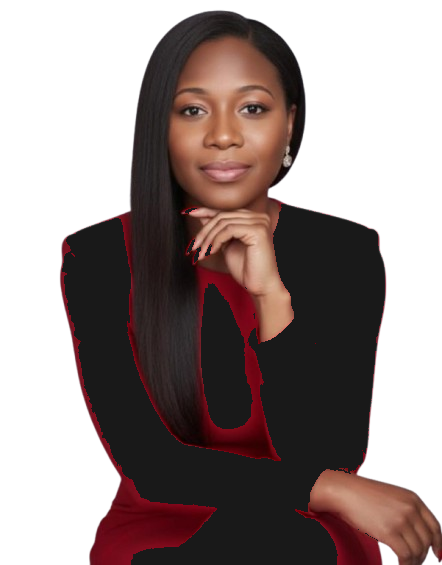
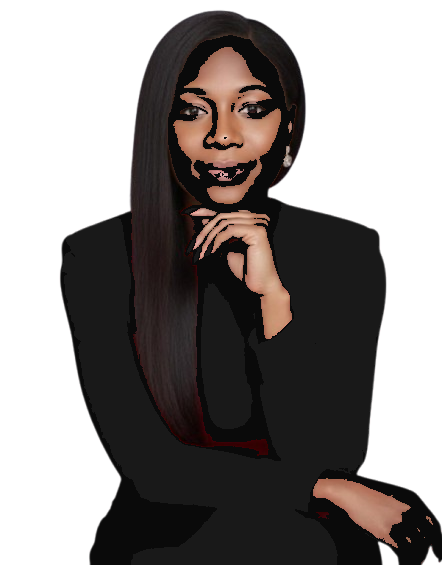
Polish: copy, pills, portrait, and professional language
- Hero specialty pills: replaced 'Injectors & Aesthetic Providers' with
  'Related Self-Pay Healthcare'; brightened all pills with navy bg/border
- Pricing Growth tagline: broadened from MedSpa-only to all aesthetic
  and wellness practices
- Financial Dashboard badge: 'Illustrative' → 'Sample Practice Financial Model'
- FinancialDashboard + FAQSection: replaced first-person 'I' with 'We'
  throughout solution text and body copy
- Portrait: second-pass PIL conversion to catch dark maroon/wine trim
  around blazer edges (31,095 additional pixels → full black)

Claude-Session: https://claude.ai/code/session_01NwKx194kftSKSsizJ6i55Q

diff --git a/src/components/FinancialDashboard.tsx b/src/components/FinancialDashboard.tsx
@@ -95,35 +95,35 @@ const metricExplanations: Record<MetricKey, MetricExplanation> = {
     plainEnglish: 'Total cash and patient financing receipts collected during the period before merchant and processing fees are deducted. Gross collections is distinct from gross billings (total charges before discounts) and recognized revenue (earned value of completed services under accrual accounting).',
     benchmark: 'User-defined illustrative baseline: $92,500 in this scenario. Not a verified industry standard.',
     commonTrap: 'Treating gross collections, gross billings, and recognized revenue as interchangeable can distort practice reporting—particularly when patient financing holdbacks, prepaid packages, or gift card deposits are involved.',
-    solution: 'I perform illustrative reconciliations between your POS/booking platform and merchant bank deposits, isolating merchant fee deductions so gross collections and merchant fees are both tracked transparently.',
+    solution: 'We perform reconciliations between your POS/booking platform and merchant bank deposits, isolating merchant fee deductions so gross collections and merchant fees are both tracked transparently.',
   },
   cogs: {
     title: 'Treatment COGS (Direct Clinical Supplies)',
     plainEnglish: 'Direct clinical costs of products administered to patients (such as neurotoxins and dermal fillers) plus consumable treatment supplies. Treatment cost reporting depends on available inventory counts and whether the practice operates on cash or accrual accounting.',
     benchmark: 'User-defined illustrative target: 23% ($21,275) in this scenario. Universal benchmarks do not apply across different treatment mixes.',
     commonTrap: 'Expensing all inventory purchases immediately upon payment rather than recognizing costs as products are actually used or sold creates artificial monthly profit volatility.',
-    solution: 'I configure dedicated Chart of Accounts categories for clinical inventory and supplies, working with your available records to distinguish inventory on hand from products used in treatments.',
+    solution: 'We configure dedicated Chart of Accounts categories for clinical inventory and supplies, working with your available records to distinguish inventory on hand from products used in treatments.',
   },
   providerPay: {
     title: 'Provider Compensation',
     plainEnglish: 'Direct compensation paid to clinical service providers, including injectors and aestheticians (hourly, commission, or base salary). Where practice records permit, direct provider compensation is distinguished from administrative, front-desk, and clinical-support payroll.',
     benchmark: 'User-defined illustrative target: 32% ($29,600) in this scenario. Compensation structures vary widely by practice model and market.',
     commonTrap: 'Calculating provider compensation on gross billed charges before merchant financing fees are deducted, or calculating commissions on unearned package balances, can misalign payroll with actual practice collections.',
-    solution: 'I help organize revenue reporting against provider compensation schedules so that compensation calculations align cleanly with collected receipts and practice policies. (Note: Worker classification and payroll processing are determined by the practice and its payroll/legal advisors.)',
+    solution: 'We help organize revenue reporting against provider compensation schedules so that compensation calculations align cleanly with collected receipts and practice policies. (Note: Worker classification and payroll processing are determined by the practice and its payroll/legal advisors.)',
   },
   opex: {
     title: 'Operating Expenses & Overhead',
     plainEnglish: 'Routine administrative and operational costs required to maintain clinic operations—such as clinic suite rent, utilities, general liability insurance, software subscriptions, and merchant processing fees. Excludes debt principal repayments and capital asset investments.',
     benchmark: 'User-defined illustrative target: 16% ($14,800) in this scenario. Operating ratios depend on clinic footprint, lease terms, and local overhead.',
     commonTrap: 'Classifying loan principal repayments, owner disbursements, or capital equipment leases as operating expenses distorts operational margins and creates misleading P&L trends.',
-    solution: 'I establish an organized MedSpa Chart of Accounts that cleanly separates operational overhead from balance-sheet liabilities and financing payments, keeping your operational P&L accurate.',
+    solution: 'We establish an organized Chart of Accounts that cleanly separates operational overhead from balance-sheet liabilities and financing payments, keeping your operational P&L accurate.',
   },
   surplus: {
     title: 'Illustrative Operating Surplus',
     plainEnglish: 'Amount remaining after the expenses included in this simplified model ($21,275 Treatment COGS + $29,600 Provider Compensation + $14,800 Operating Expenses = $26,825). This figure represents the mathematical surplus of the specific illustrative items shown.',
     benchmark: 'User-defined illustrative outcome: 29% ($26,825) in this simplified scenario. Not a verified industry standard.',
     commonTrap: 'Operating surplus is not identical to net profit, EBITDA, or cash available for owner distributions. Cash available for owner distributions also depends on income taxes, debt principal payments, working capital reserves, capital expenditures, and unmodeled expenses.',
-    solution: 'I deliver structured monthly financial statements—including reconciled Profit & Loss and Balance Sheet reporting—so practice owners understand both operating performance and balance sheet obligations.',
+    solution: 'We deliver structured monthly financial statements—including reconciled Profit & Loss and Balance Sheet reporting—so practice owners understand both operating performance and balance sheet obligations.',
   },
 };
 
@@ -268,13 +268,13 @@ export const FinancialDashboard: React.FC<FinancialDashboardProps> = ({
           <div className="lg:col-span-6 space-y-4">
             <div className="inline-flex items-center gap-2 px-3 py-1 rounded-full bg-[#1A2E40]/5 border border-[#1A2E40]/10 text-xs font-semibold tracking-wider text-[#1A2E40] uppercase">
               <PieChart className="w-3.5 h-3.5 text-[#D4AF37]" />
-              <span>Illustrative Practice Financial Model</span>
+              <span>Sample Practice Financial Model</span>
             </div>
             <h2 className="text-3xl sm:text-4xl lg:text-5xl font-serif font-bold text-[#1A2E40] leading-tight">
               Your books should tell you more than whether your bank account went up.
             </h2>
             <p className="text-base sm:text-lg text-[#57534E] leading-relaxed">
-              I organize the financial side of your practice so you can see where revenue is coming from, what your treatments and providers are costing you, and how profitable your practice really is.
+              We organize the financial side of your practice so you can see where revenue is coming from, what your treatments and providers are costing you, and how profitable your practice really is.
             </p>
             <div className="p-3 rounded-xl bg-[#FAF8F5] border border-[#D4AF37]/35 text-xs text-[#718096] flex items-center gap-2">
               <Info className="w-4 h-4 text-[#D4AF37] shrink-0" />
@@ -1059,7 +1059,7 @@ export const FinancialDashboard: React.FC<FinancialDashboardProps> = ({
                   Reports Built for Practice Owners, Not Just Accountants
                 </p>
                 <p className="text-xs sm:text-sm text-[#57534E] mt-1 leading-relaxed">
-                  I help organize your aesthetic practice&apos;s financial records and develop clearer reporting across treatment revenue, product costs, provider compensation and operating expenses—so you can better understand your practice&apos;s financial performance.
+                  We help organize your practice&apos;s financial records and develop clearer reporting across treatment revenue, product costs, provider compensation and operating expenses—so you can better understand your practice&apos;s financial performance.
                 </p>
               </div>
             </div>

diff --git a/src/components/Hero.tsx b/src/components/Hero.tsx
@@ -62,10 +62,10 @@ export const Hero: React.FC<HeroProps> = ({
             {/* Strategic Segments Mention */}
             <div className="flex flex-wrap items-center gap-2 pt-1 text-xs text-[#64748B]">
               <span className="font-semibold text-[#1A2E40]">Specialized in:</span>
-              <span className="px-2.5 py-1 rounded-md bg-[#FAF8F5] border border-[#E2E8F0]">MedSpas &amp; Aesthetic Practices</span>
-              <span className="px-2.5 py-1 rounded-md bg-[#FAF8F5] border border-[#E2E8F0]">IV Hydration &amp; Wellness</span>
-              <span className="px-2.5 py-1 rounded-md bg-[#FAF8F5] border border-[#E2E8F0]">Medical Weight-Loss</span>
-              <span className="px-2.5 py-1 rounded-md bg-[#FAF8F5] border border-[#E2E8F0]">Injectors &amp; Aesthetic Providers</span>
+              <span className="px-2.5 py-1 rounded-md bg-[#1A2E40]/8 border border-[#1A2E40]/20 text-[#1A2E40] font-medium">MedSpas &amp; Aesthetic Practices</span>
+              <span className="px-2.5 py-1 rounded-md bg-[#1A2E40]/8 border border-[#1A2E40]/20 text-[#1A2E40] font-medium">IV Hydration &amp; Wellness</span>
+              <span className="px-2.5 py-1 rounded-md bg-[#1A2E40]/8 border border-[#1A2E40]/20 text-[#1A2E40] font-medium">Medical Weight-Loss</span>
+              <span className="px-2.5 py-1 rounded-md bg-[#1A2E40]/8 border border-[#1A2E40]/20 text-[#1A2E40] font-medium">Related Self-Pay Healthcare</span>
             </div>
 
             {/* Action Buttons */}

diff --git a/src/components/FAQSection.tsx b/src/components/FAQSection.tsx
@@ -190,7 +190,7 @@ export const FAQSection: React.FC<FAQSectionProps> = ({ onBookCall, featuredLimi
       categoryLabel: 'PRACTICE FINANCIAL OPERATIONS',
       question: 'How do you record sales tax for treatments, products, memberships, and packages?',
       answer:
-        'Sales-tax requirements vary by state, location, and the type of product or service being sold. Your CPA, attorney, or sales-tax advisor should determine which transactions are taxable and which rates apply to your practice.\n\nOnce those requirements are established, I organize QuickBooks to separate sales-tax activity from operating revenue, reconcile amounts recorded through your payment or practice-management platforms, and prepare clear reports for you or your tax professional.',
+        'Sales-tax requirements vary by state, location, and the type of product or service being sold. Your CPA, attorney, or sales-tax advisor should determine which transactions are taxable and which rates apply to your practice.\n\nOnce those requirements are established, we organize QuickBooks to separate sales-tax activity from operating revenue, reconcile amounts recorded through your payment or practice-management platforms, and prepare clear reports for you or your tax professional.',
       takeaways: [
         'Separate tracking for sales tax and operating revenue',
         'Reconciliation of sales-tax activity from connected platforms',

diff --git a/src/components/PricingSection.tsx b/src/components/PricingSection.tsx
@@ -47,7 +47,7 @@ const monthlyPlans = [
     id: 'growth',
     name: 'Growth',
     revenueRange: '$25K – $75K / month',
-    tagline: 'Multi-provider MedSpas with memberships, patient financing, and multiple payment systems.',
+    tagline: 'Multi-provider aesthetic and wellness practices with memberships, patient financing, and multiple payment systems.',
     startingAt: '$797',
     period: '/month',
     icon: Sparkles,
